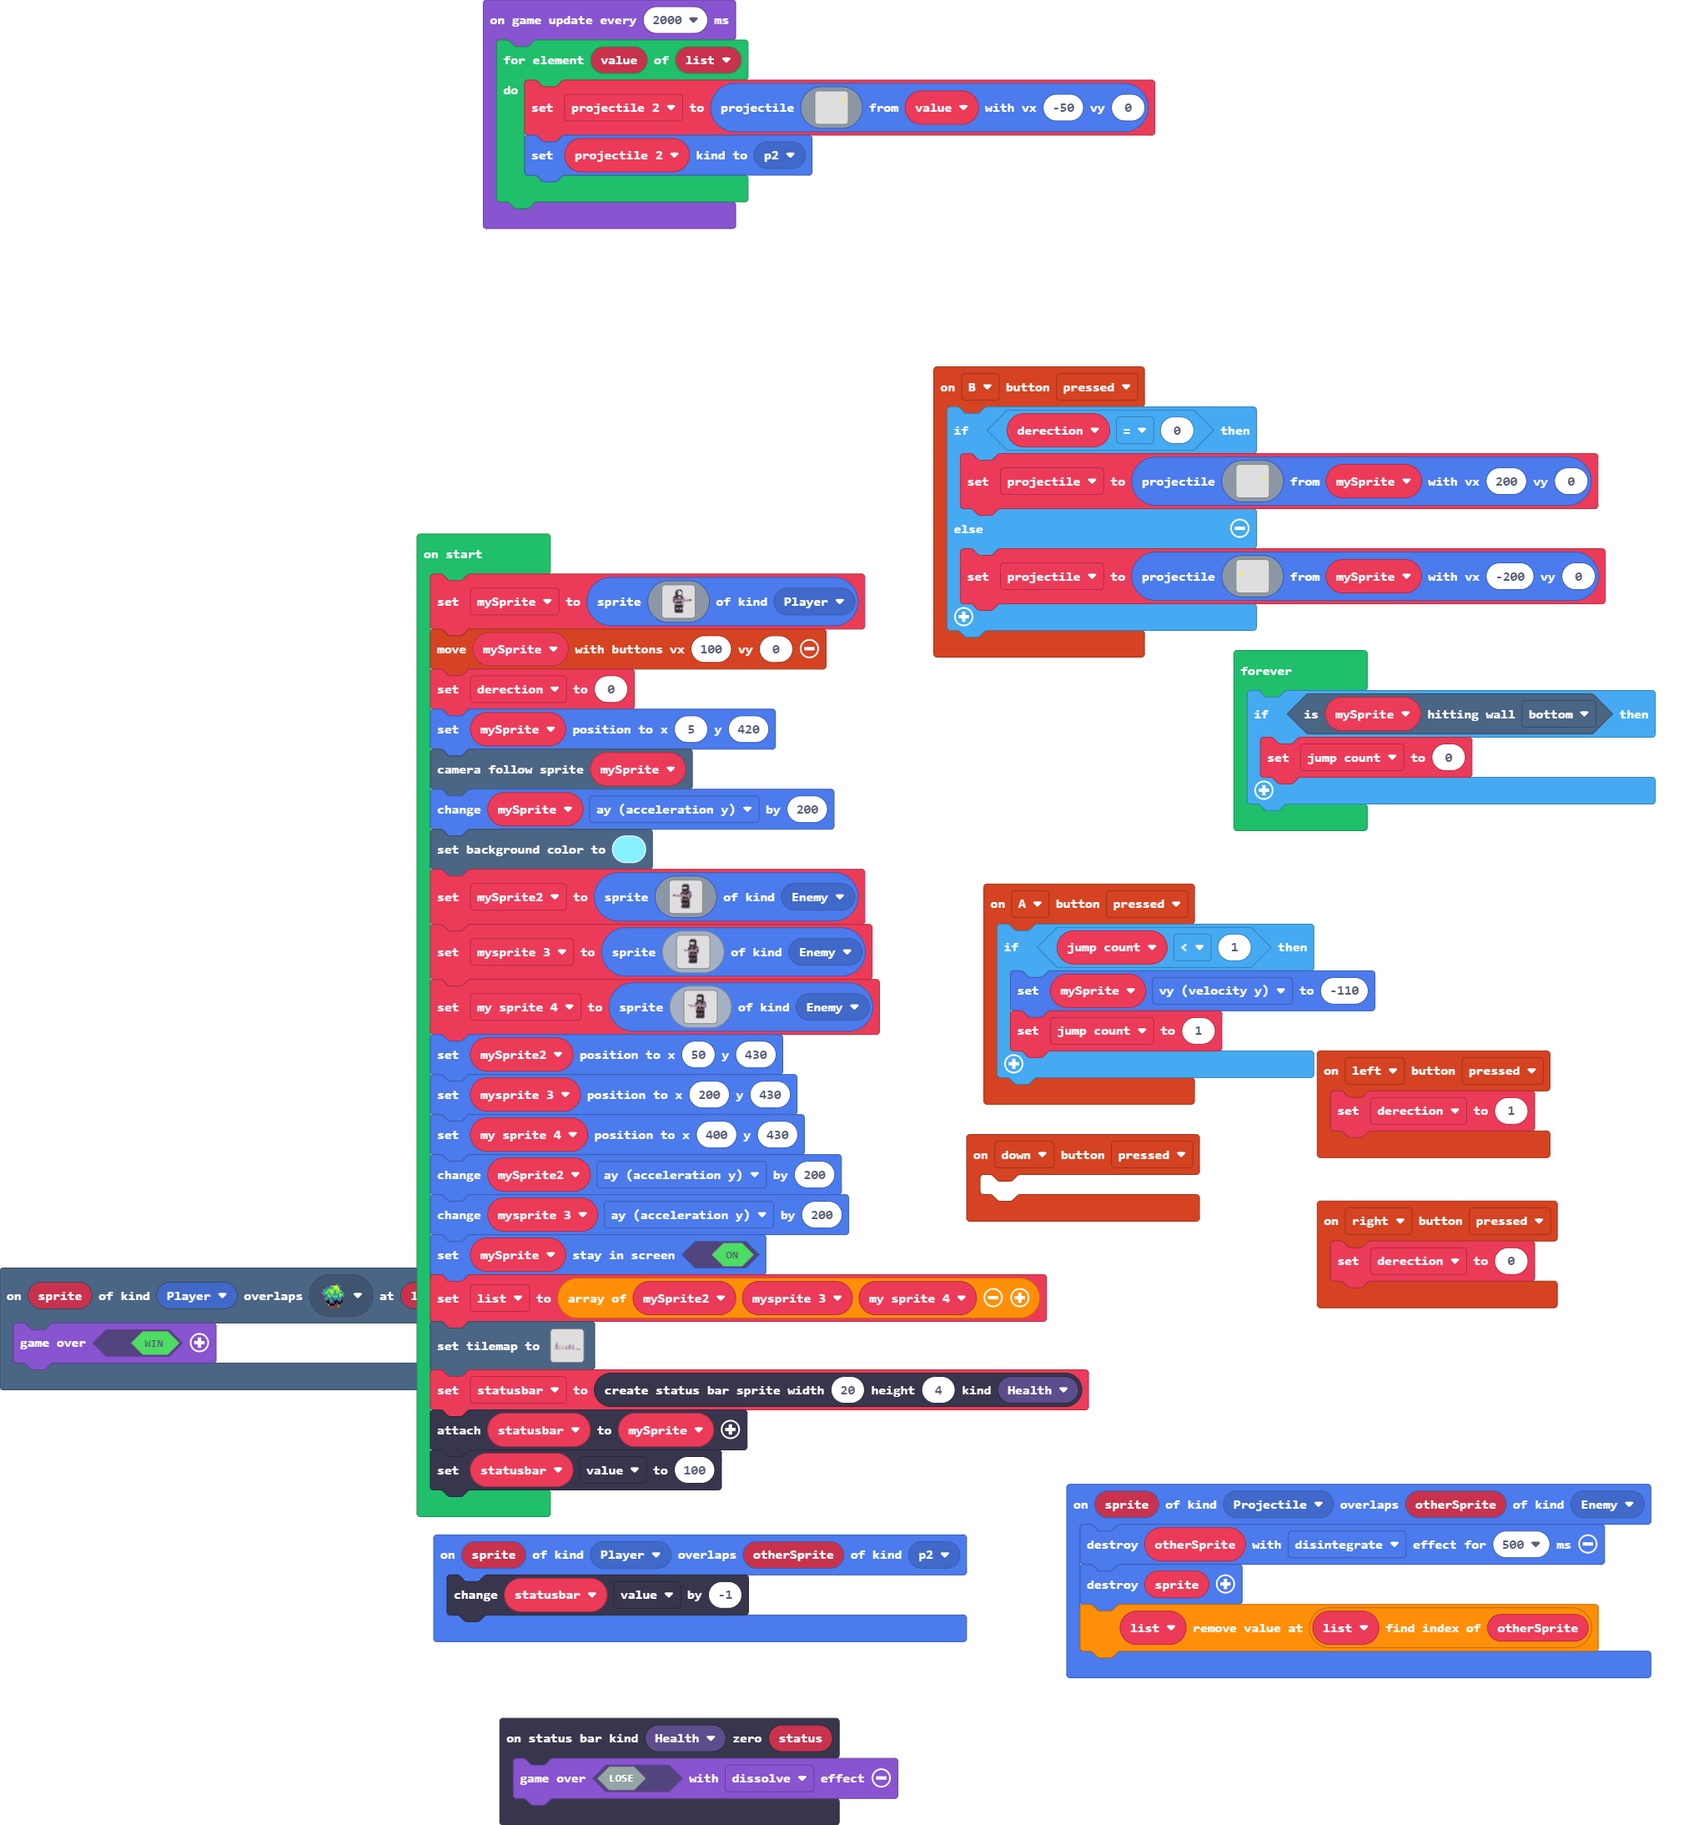
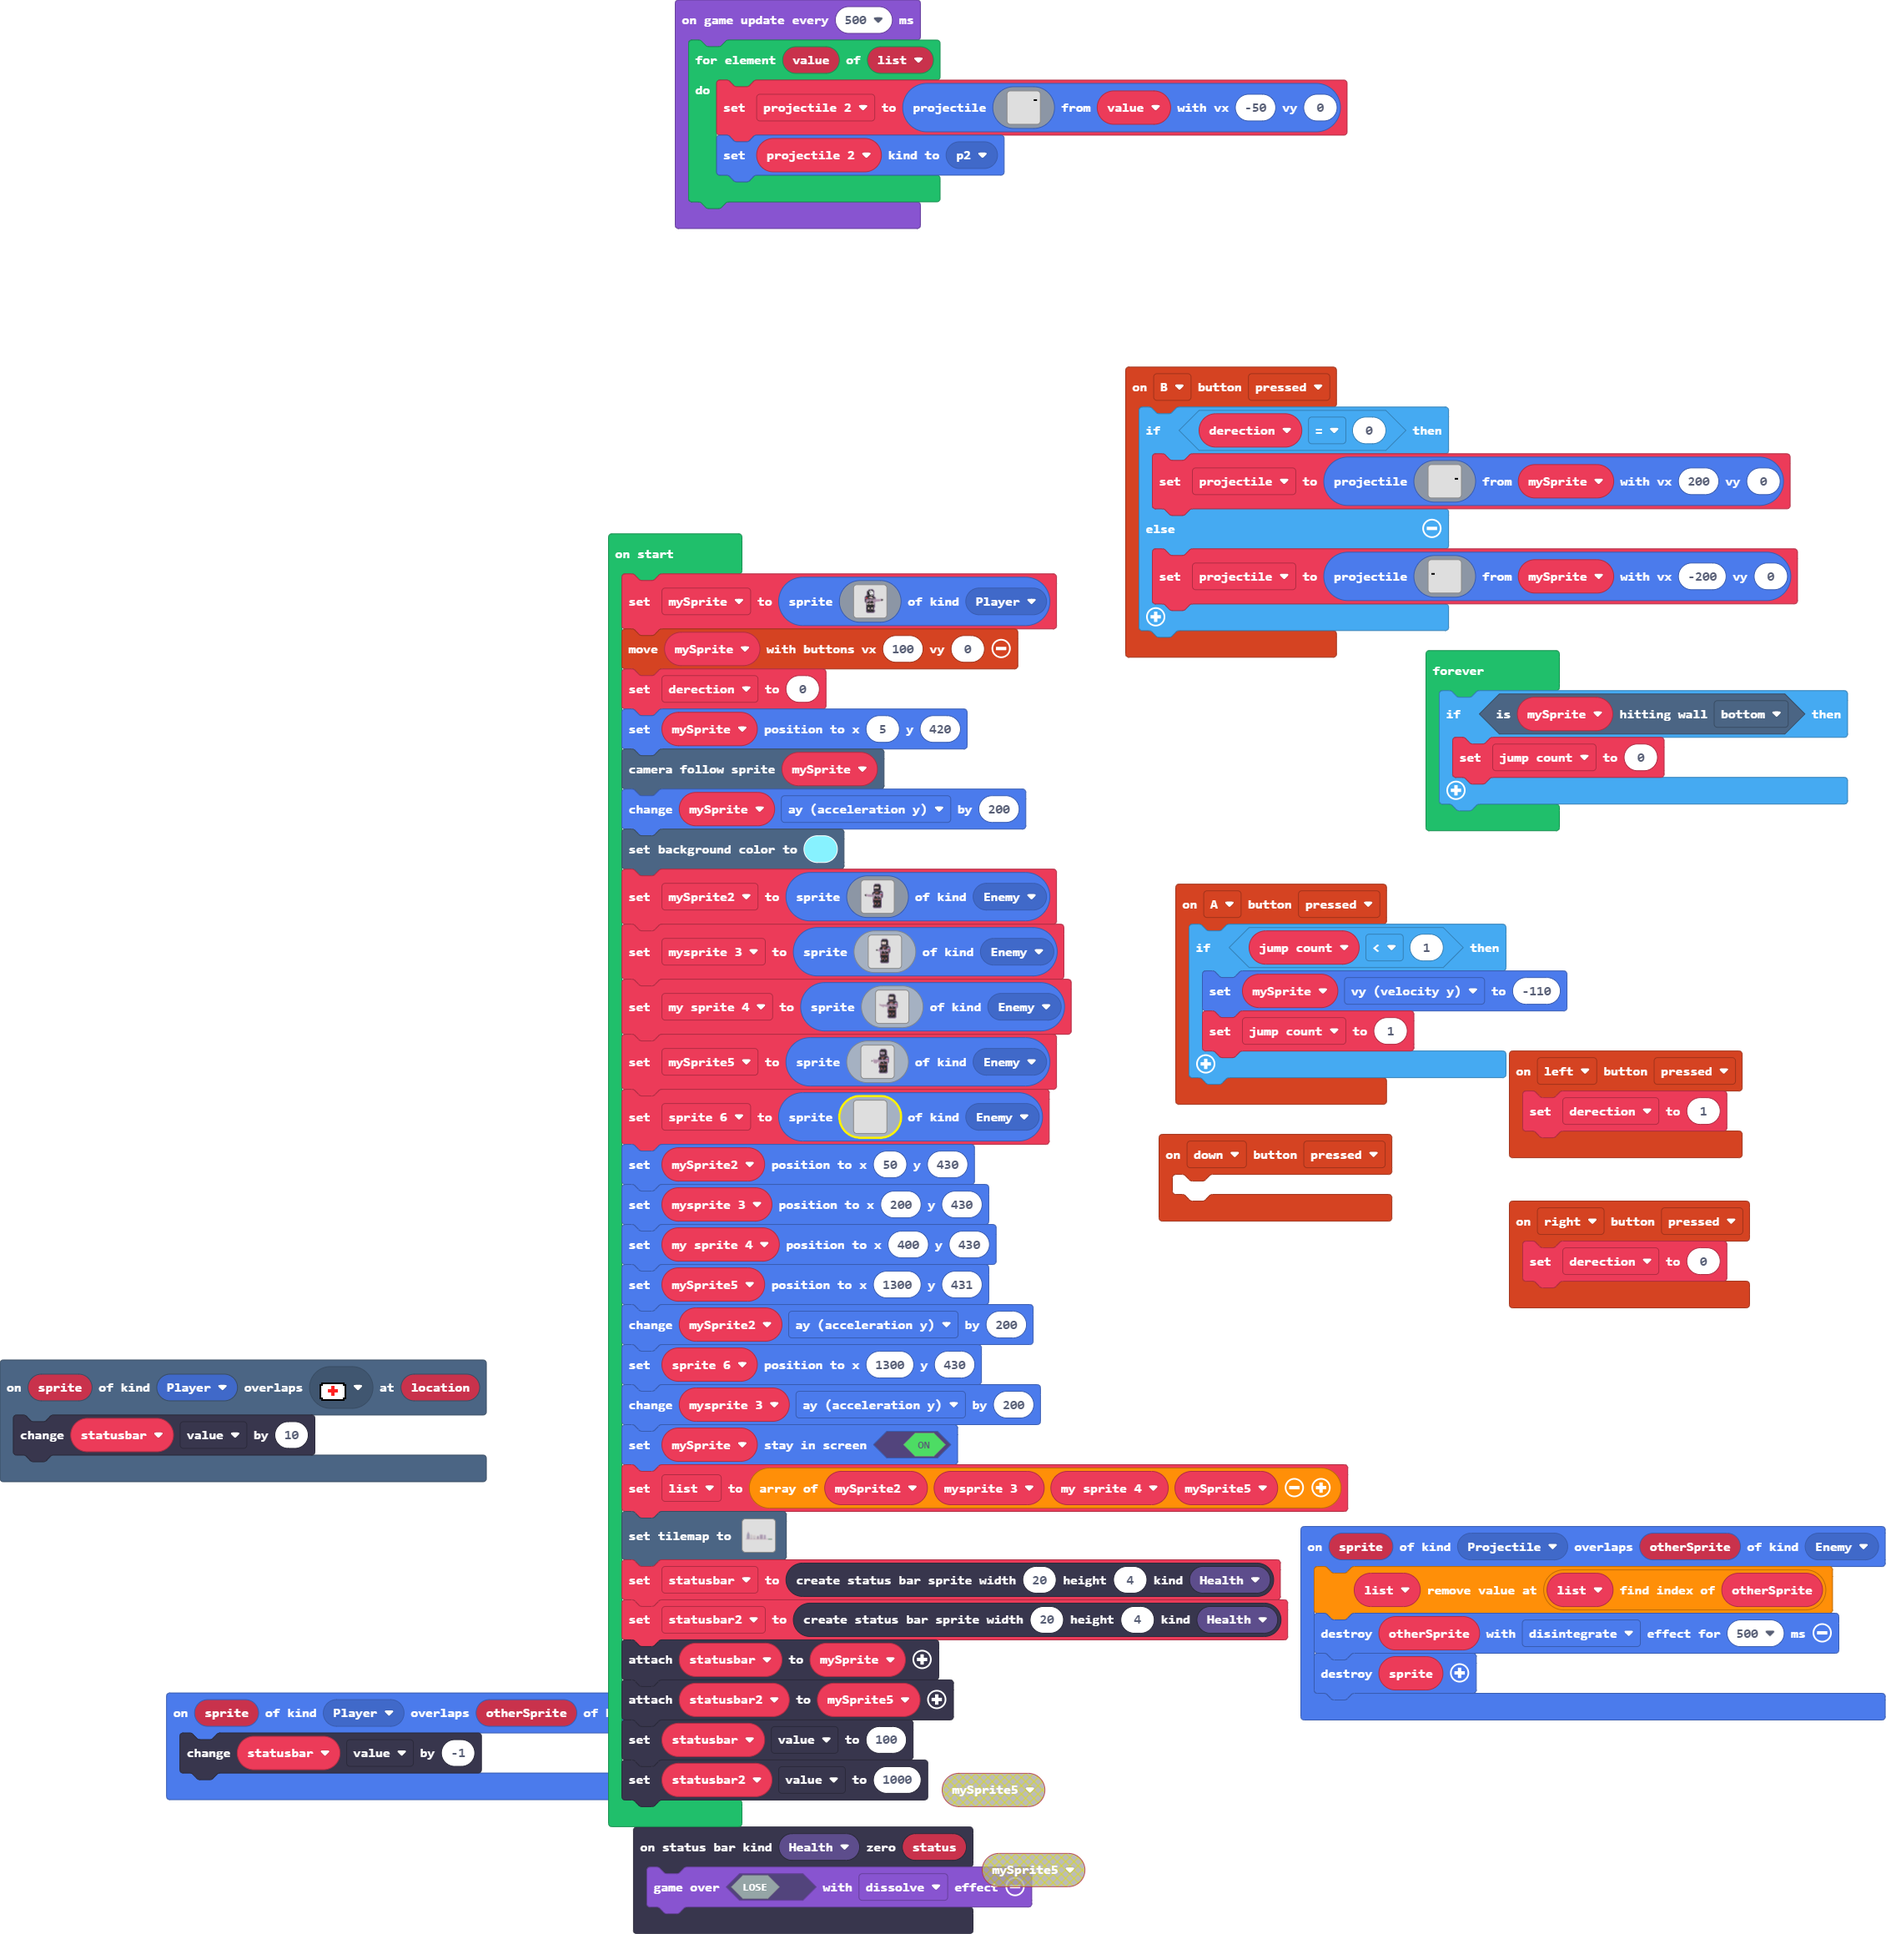
Update main.blocks, main.ts, tilemap.g.jres, tilemap.g.ts

diff --git a/tilemap.g.ts b/tilemap.g.ts
@@ -26,6 +26,10 @@ namespace myTiles {
     export const tile8 = image.ofBuffer(hex``);
     //% fixedInstance jres blockIdentity=images._tile
     export const tile12 = image.ofBuffer(hex``);
+    //% fixedInstance jres blockIdentity=images._tile
+    export const tile13 = image.ofBuffer(hex``);
+    //% fixedInstance jres blockIdentity=images._tile
+    export const tile14 = image.ofBuffer(hex``);
 
     helpers._registerFactory("tilemap", function(name: string) {
         switch(helpers.stringTrim(name)) {
@@ -105,39 +109,6 @@ namespace myTiles {
 . . . . . . . . . . . . . . . . 
 . . . . . . . . . . . . . . . . 
 `, [myTiles.transparency16], TileScale.Sixteen);
-            case "level1":
[1 lines of base64/hex data omitted]
-..........................................................................................
-..........................................................................................
-..........................................................................................
-..........................................................................................
-..........................................................................................
-..........................................................................................
-..........................................................................................
-..........................................................................................
-..........................................................................................
-..........................................................................................
-..........................................................................................
-..........................................................................................
-..........................................................................................
-..........................................................................................
-..........................................................................................
-..........................................................................................
-..........................................................................................
-..........................................................................................
-..........................................................................................
-..........................................................................................
-..........................................................................................
-..........................................................................................
-..........................................................................................
-..........................................................................................
-..........................................................................................
-..........................................................................................
-..........................................................................................
-..........................................................................................
-222222222222222222222222222222222222222222222222222222222222222222222222222222222222222222
-222222222222222222222222222222222222222222222222222222222222222222222222222222222222222222
-`, [myTiles.transparency16,sprites.dungeon.floorDark2,myTiles.tile1,sprites.dungeon.floorLight0,myTiles.tile2,myTiles.tile3,myTiles.tile4,sprites.dungeon.floorLight2,myTiles.tile5,myTiles.tile6,myTiles.tile7,sprites.dungeon.floorDarkDiamond,myTiles.tile10,myTiles.tile8,sprites.builtin.forestTiles1,sprites.builtin.forestTiles6,myTiles.tile12,sprites.castle.saplingPine,sprites.castle.saplingOak], TileScale.Sixteen);
             case "level6":
             case "level6":return tiles.createTilemap(hex`1000100000000000000000000000000000000000000000000000000000000000000000000000000000000000000000000000000000000000000000000000000000000000000000000000000000000000000000000000000000000000000000000000000000000000000000000000000000000000000000000000000000000000000000000000000000000000000000000000000000000000000000000000000000000000000000000000000000000000000000000000000000000000000000000000000000000000000000000000000000000000000000000000000000000000000000000000000000000000000000000000000000000000000000000000000000000000`, img`
 . . . . . . . . . . . . . . . . 
@@ -176,6 +147,39 @@ namespace myTiles {
 . . . . . . . . . . . . . . . . 
 . . . . . . . . . . . . . . . . 
 `, [myTiles.transparency16], TileScale.Sixteen);
+            case "level1":
[1 lines of base64/hex data omitted]
+..........................................................................................
+..........................................................................................
+..........................................................................................
+..........................................................................................
+..........................................................................................
+..........................................................................................
+..........................................................................................
+..........................................................................................
+..........................................................................................
+..........................................................................................
+..........................................................................................
+..........................................................................................
+..........................................................................................
+..........................................................................................
+..........................................................................................
+..........................................................................................
+..........................................................................................
+..........................................................................................
+..........................................................................................
+..........................................................................................
+..........................................................................................
+..........................................................................................
+..........................................................................................
+..........................................................................................
+..........................................................................................
+..........................................................................................
+..........................................................................................
+..........................................................................................
+222222222222222222222222222222222222222222222222222222222222222222222222222222222222222222
+222222222222222222222222222222222222222222222222222222222222222222222222222222222222222222
+`, [myTiles.transparency16,sprites.dungeon.floorDark2,myTiles.tile1,sprites.dungeon.floorLight0,myTiles.tile2,myTiles.tile3,myTiles.tile4,sprites.dungeon.floorLight2,myTiles.tile5,myTiles.tile6,myTiles.tile7,sprites.dungeon.floorDarkDiamond,myTiles.tile10,myTiles.tile8,sprites.builtin.forestTiles1,sprites.builtin.forestTiles6,myTiles.tile12,sprites.castle.saplingPine,sprites.castle.saplingOak,myTiles.tile14], TileScale.Sixteen);
         }
         return null;
     })
@@ -207,6 +211,10 @@ namespace myTiles {
             case "tile8":return tile8;
             case "myTile10":
             case "tile12":return tile12;
+            case "myTile11":
+            case "tile13":return tile13;
+            case "myTile12":
+            case "tile14":return tile14;
         }
         return null;
     })

diff --git a/main.ts b/main.ts
@@ -10,7 +10,7 @@ controller.B.onEvent(ControllerButtonEvent.Pressed, function () {
             . . . . . . . . . . . . . . . . 
             . . . . . . . . . . . . . . . . 
             . . . . . . . . . . . . . . . . 
-            . . . . . . . . . . . . . . 5 5 
+            . . . . . . . . . . . . . . f f 
             . . . . . . . . . . . . . . . . 
             . . . . . . . . . . . . . . . . 
             . . . . . . . . . . . . . . . . 
@@ -29,7 +29,7 @@ controller.B.onEvent(ControllerButtonEvent.Pressed, function () {
             . . . . . . . . . . . . . . . . 
             . . . . . . . . . . . . . . . . 
             . . . . . . . . . . . . . . . . 
-            5 5 . . . . . . . . . . . . . . 
+            f f . . . . . . . . . . . . . . 
             . . . . . . . . . . . . . . . . 
             . . . . . . . . . . . . . . . . 
             . . . . . . . . . . . . . . . . 
@@ -48,6 +48,9 @@ controller.A.onEvent(ControllerButtonEvent.Pressed, function () {
         jump_count = 1
     }
 })
+scene.onOverlapTile(SpriteKind.Player, assets.tile`myTile12`, function (sprite, location) {
+    statusbar.value += 10
+})
 controller.left.onEvent(ControllerButtonEvent.Pressed, function () {
     derection = 1
 })
@@ -63,13 +66,10 @@ controller.down.onEvent(ControllerButtonEvent.Pressed, function () {
 sprites.onOverlap(SpriteKind.Player, SpriteKind.p2, function (sprite, otherSprite) {
     statusbar.value += -1
 })
-scene.onOverlapTile(SpriteKind.Player, sprites.castle.saplingOak, function (sprite, location) {
-    game.over(true)
-})
 sprites.onOverlap(SpriteKind.Projectile, SpriteKind.Enemy, function (sprite, otherSprite) {
+    list.removeAt(list.indexOf(otherSprite))
     otherSprite.destroy(effects.disintegrate, 500)
     sprite.destroy()
-    list.removeAt(list.indexOf(otherSprite))
 })
 let projectile_2: Sprite = null
 let jump_count = 0
@@ -252,24 +252,79 @@ let my_sprite_4 = sprites.create(img`
     ........................................
     ........................................
     `, SpriteKind.Enemy)
+let mySprite5 = sprites.create(img`
+    ........................................
+    .........................ccccccc........
+    ........................cfffffffc.......
+    .......................cfffffffffc......
+    .......................cfffffffffc......
+    .......................cbbbbbbbffc......
+    .......................cbf1bf1bffc......
+    .......................cbbbbbbbffc......
+    .......................cfbbbbbbffc......
+    .......................cffffffffff......
+    .......................cffffffffc.......
+    ........................ccccccccccc.....
+    .......................cfffffffffffc....
+    ......................cfffeeeeffffffc...
+    .....................cfffeeeeeeff111c...
+    .....................cfffffbffffc888c...
+    ..............b......cfffffbffffc222c...
+    ..............bbbbbbbbbbbbbbbbbbbbbbc...
+    ...........fbbbbbbbbbbbbbbbbbbbbbbbbc...
+    ...............bbbbbbbbbbbbbbffbbbbbc...
+    ..............bbbbbb..bbbfffbbffffbbc...
+    ...............bbbb...bbfffffbffffbc....
+    ......................bbffffffffffc.....
+    ......................ceeceeeecceec.....
+    ......................ceeceeeecceec.....
+    ......................cfffffffffffc.....
+    ......................cfffffffffffc.....
+    ......................cfffffffffffc.....
+    ......................ccffffffffffc.....
+    .......................cfeefffeeffc.....
+    .......................cfeefcfeeffc.....
+    .......................cfeefcfeeffc.....
+    .......................ccfffcfffffc.....
+    ......................cfffffcfffffc.....
+    ......................cfffffffffffc.....
+    ......................ccfffffffffcc.....
+    .......................ccccccccccc......
+    ........................................
+    ........................................
+    ........................................
+    `, SpriteKind.Enemy)
+let sprite_6 = sprites.create(img`
+    . . . . . . . . . . . . . . . . . . . . . . . . . . . . . . . . . . . . . . . . 
+    `, SpriteKind.Enemy)
 mySprite2.setPosition(50, 430)
 mysprite_3.setPosition(200, 430)
 my_sprite_4.setPosition(400, 430)
+mySprite5.setPosition(1300, 431)
 mySprite2.ay += 200
+sprite_6.setPosition(1300, 430)
 mysprite_3.ay += 200
 mySprite.setStayInScreen(true)
-list = [mySprite2, mysprite_3, my_sprite_4]
+list = [mySprite2, mysprite_3, my_sprite_4, mySprite5]
 tiles.setTilemap(tilemap`level1`)
 statusbar = statusbars.create(20, 4, StatusBarKind.Health)
+let statusbar2 = statusbars.create(20, 4, StatusBarKind.Health)
 statusbar.attachToSprite(mySprite)
+statusbar2.attachToSprite(mySprite5)
 statusbar.value = 100
-game.onUpdateInterval(2000, function () {
+statusbar2.value = 1000
+forever(function () {
+    if (mySprite.isHittingTile(CollisionDirection.Bottom)) {
+        jump_count = 0
+    }
+})
+game.onUpdateInterval(500, function () {
     for (let value of list) {
         projectile_2 = sprites.createProjectileFromSprite(img`
             . . . . . . . . . . . . . . . . 
             . . . . . . . . . . . . . . . . 
             . . . . . . . . . . . . . . . . 
-            . . . . . . . . . . . . . . 5 5 
+            . . . . . . . . . . . . . . f f 
             . . . . . . . . . . . . . . . . 
             . . . . . . . . . . . . . . . . 
             . . . . . . . . . . . . . . . . 
@@ -284,10 +339,5 @@ game.onUpdateInterval(2000, function () {
             . . . . . . . . . . . . . . . . 
             `, value, -50, 0)
         projectile_2.setKind(SpriteKind.p2)
-    }
-})
-forever(function () {
-    if (mySprite.isHittingTile(CollisionDirection.Bottom)) {
-        jump_count = 0
     }
 })
